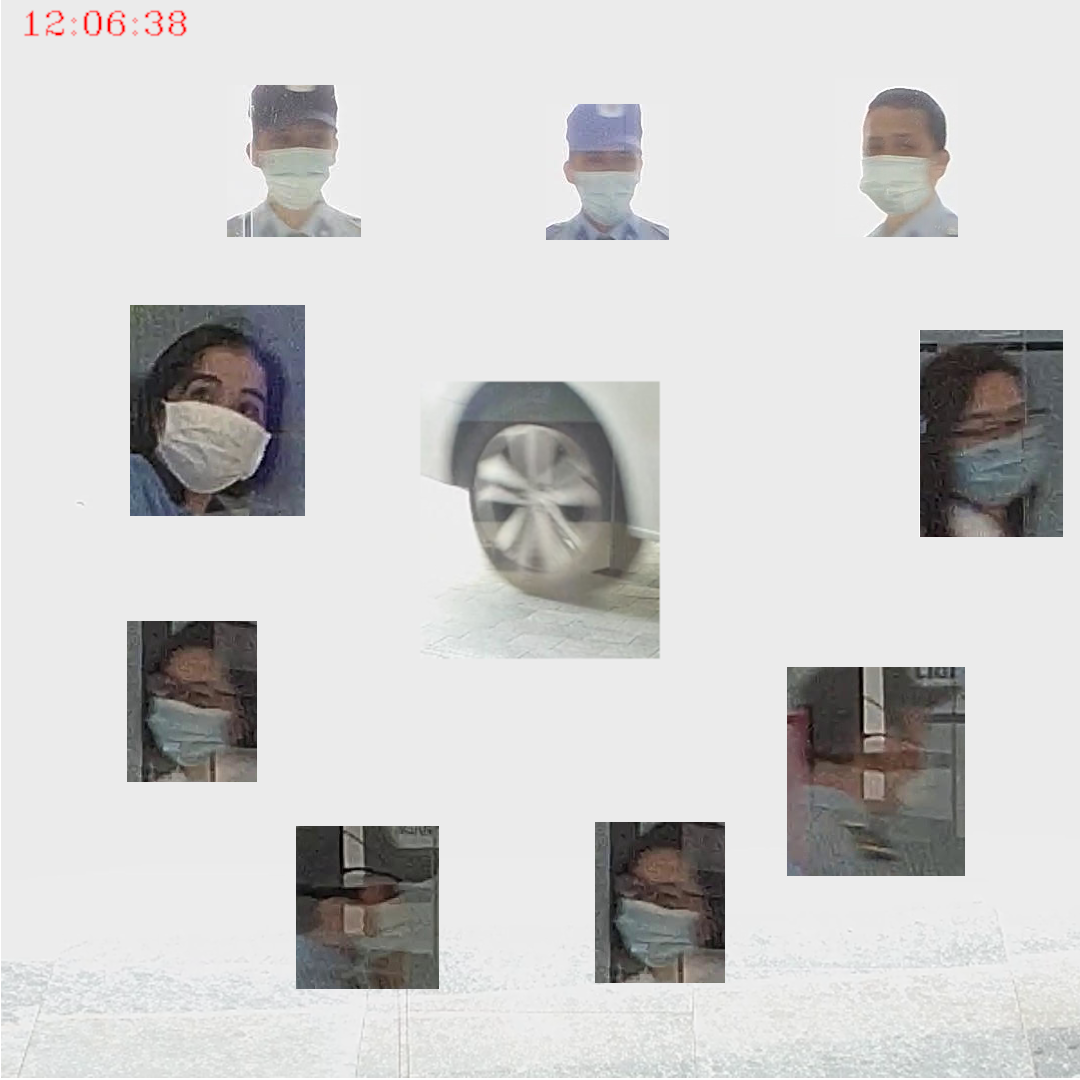
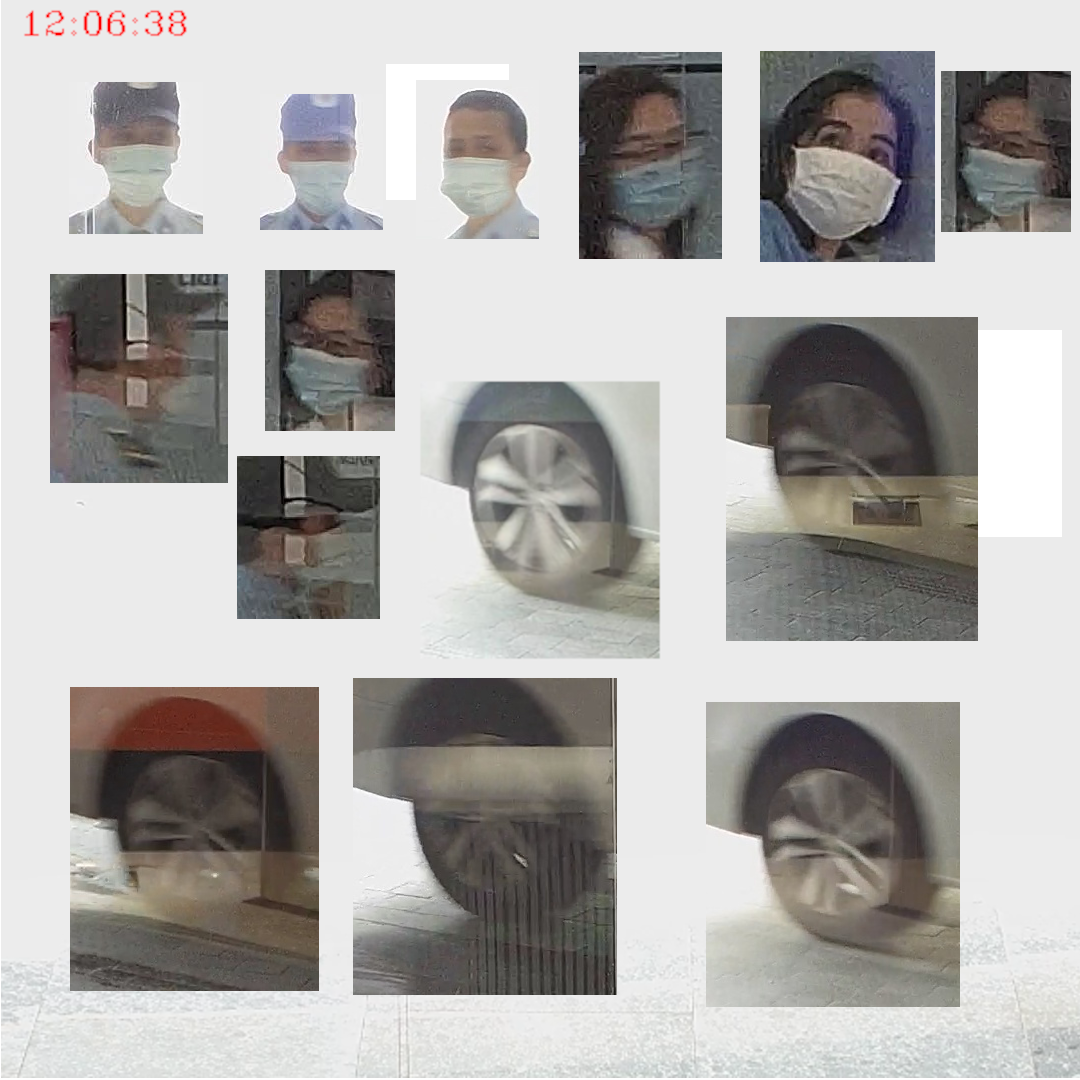
update

diff --git a/main.py b/main.py
@@ -369,6 +369,9 @@ def recogn_thread_fun():
                         first_face_bgr = cv2.cvtColor(faceCropExpand, cv2.COLOR_RGB2BGR)
                         cv2.imwrite(photo_path, first_face_bgr)
                         support.add_redis_queue(new_user_name, first_face_bgr)
+
+                        full_bgr =  cv2.cvtColor(rgb, cv2.COLOR_RGB2BGR)
+                        cv2.imwrite(os.path.join("dataset/firstphotos", new_user_name + "U.jpg"), full_bgr)
                         
                         user_qualityscore_face_firsttime[new_user_name][4] = None
                         user_qualityscore_face_firsttime[new_user_name][5] = True
